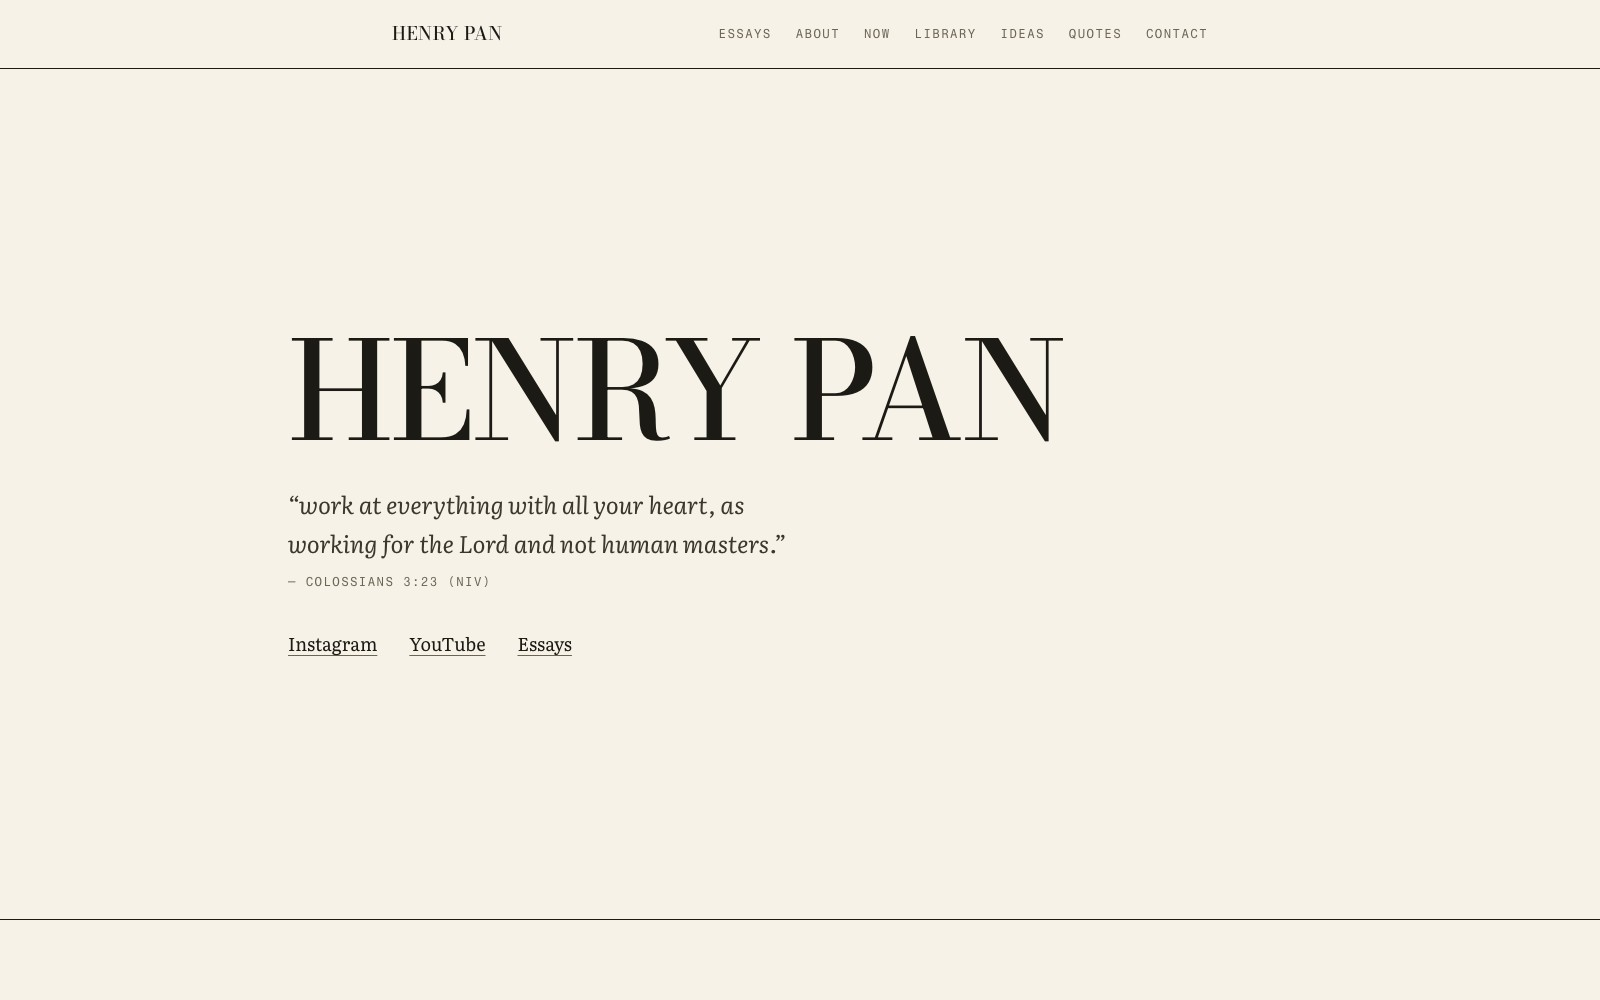
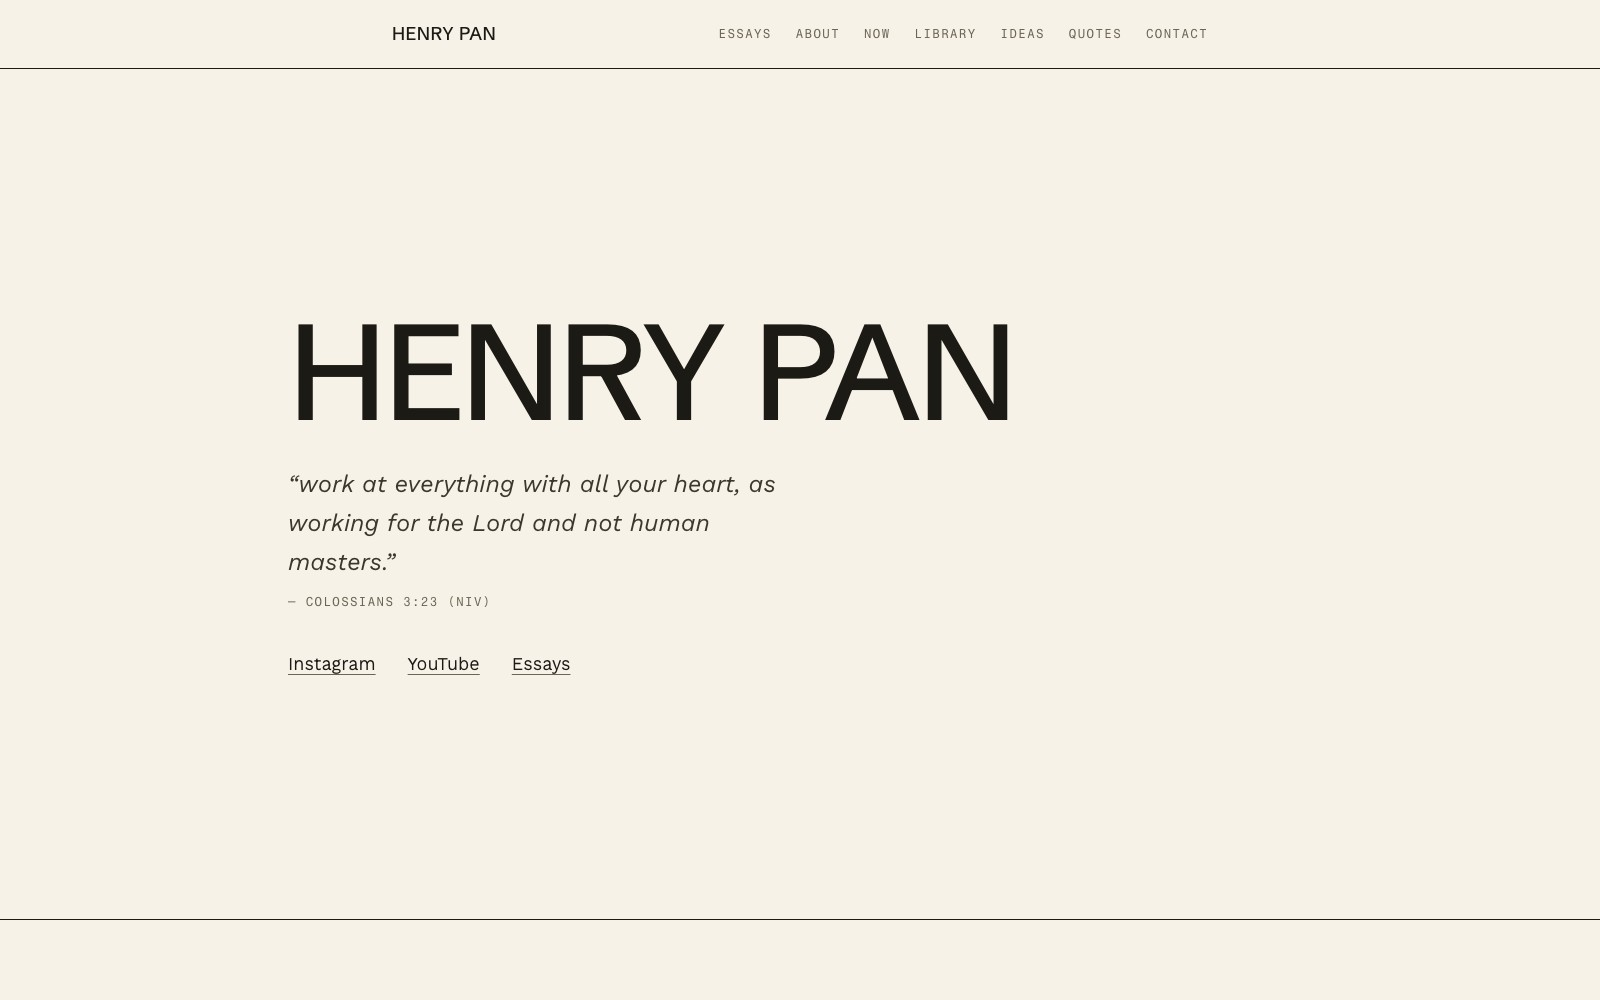
Henry Pan redesign: switch to sans-serif type, reformat Library
Henry gave feedback that he's "more of a sans serif type of guy" — swapped
the Bodoni Moda/Literata serif pairing for Schibsted Grotesk/Work Sans and
softened the near-0 corner radius. Also reworked the Library list rows from
a flex-wrap layout (which misaligned status/lindy badges depending on title
length) to a grid with consistent dot-indicator status labels instead of
mismatched filled/outline badge variants.

Changed region(s): [[0.1875, 0.31, 0.6562, 0.62], [0.1875, 0.62, 0.375, 0.682], [0.25, 0.0, 0.3125, 0.062]]

diff --git a/henryproject/components/sections/library-browser.tsx b/henryproject/components/sections/library-browser.tsx
@@ -5,7 +5,6 @@ import { StarIcon } from "lucide-react";
 
 import type { LibraryItem, LibrarySection, LibraryStatus } from "@/lib/types";
 import { cn } from "@/lib/utils";
-import { Badge } from "@/components/ui/badge";
 
 type Filter = "all" | "lindy" | LibraryStatus;
 
@@ -36,12 +35,12 @@ const statusLabel: Record<LibraryStatus, string> = {
   watched: "Watched",
 };
 
-const statusVariant: Record<LibraryStatus, "default" | "secondary" | "outline"> = {
-  reading: "default",
-  "to-read": "secondary",
-  read: "outline",
-  "to-watch": "secondary",
-  watched: "outline",
+const statusDotColor: Record<LibraryStatus, string> = {
+  reading: "bg-primary",
+  "to-read": "bg-secondary",
+  read: "bg-muted-foreground",
+  "to-watch": "bg-accent",
+  watched: "bg-muted-foreground",
 };
 
 const statusOrder: Record<LibraryStatus, number> = {
@@ -117,7 +116,7 @@ export function LibraryBrowser({ sections }: { sections: LibrarySection[] }) {
         <select
           value={sort}
           onChange={(event) => setSort(event.target.value as Sort)}
-          className="border border-border bg-background px-2 py-1 text-sm"
+          className="rounded-panel border border-border bg-background px-2 py-1 text-sm"
         >
           {sortOptions.map((option) => (
             <option key={option.value} value={option.value}>
@@ -137,41 +136,53 @@ export function LibraryBrowser({ sections }: { sections: LibrarySection[] }) {
               {section.items.map((item) => (
                 <li
                   key={item.title}
-                  className="flex flex-wrap items-center gap-x-3 gap-y-1 py-3"
+                  className="grid grid-cols-1 items-start gap-x-4 gap-y-1.5 py-3 sm:grid-cols-[minmax(0,1fr)_6.5rem_4.5rem] sm:items-center"
                 >
-                  {item.href ? (
-                    <a
-                      href={item.href}
-                      target="_blank"
-                      rel="noopener noreferrer"
-                      className="font-medium text-foreground underline decoration-transparent underline-offset-2 hover:decoration-foreground"
-                    >
-                      {item.title}
-                    </a>
-                  ) : (
-                    <span className="font-medium text-foreground">
-                      {item.title}
-                    </span>
-                  )}
-                  {item.author && (
-                    <span className="text-sm text-muted-foreground">
-                      {item.author}
-                    </span>
-                  )}
-                  {item.status && (
-                    <Badge variant={statusVariant[item.status]}>
-                      {statusLabel[item.status]}
-                    </Badge>
-                  )}
-                  {item.lindy && (
-                    <Badge
-                      variant="secondary"
-                      className="gap-1 bg-bronze-400 text-ink-950"
-                    >
-                      <StarIcon className="size-3 fill-current" />
-                      Lindy
-                    </Badge>
-                  )}
+                  <div className="min-w-0 sm:truncate">
+                    {item.href ? (
+                      <a
+                        href={item.href}
+                        target="_blank"
+                        rel="noopener noreferrer"
+                        className="font-medium text-foreground underline decoration-transparent underline-offset-2 hover:decoration-foreground"
+                      >
+                        {item.title}
+                      </a>
+                    ) : (
+                      <span className="font-medium text-foreground">
+                        {item.title}
+                      </span>
+                    )}
+                    {item.author && (
+                      <span className="ml-2 text-sm text-muted-foreground">
+                        {item.author}
+                      </span>
+                    )}
+                  </div>
+
+                  <div className="flex items-center">
+                    {item.status && (
+                      <span className="inline-flex items-center gap-1.5 font-label text-[11px] uppercase text-muted-foreground">
+                        <span
+                          className={cn(
+                            "size-1.5 shrink-0 rounded-full",
+                            statusDotColor[item.status]
+                          )}
+                          aria-hidden
+                        />
+                        {statusLabel[item.status]}
+                      </span>
+                    )}
+                  </div>
+
+                  <div className="flex items-center">
+                    {item.lindy && (
+                      <span className="inline-flex items-center gap-1 font-label text-[11px] uppercase text-bronze-600">
+                        <StarIcon className="size-3 shrink-0 fill-current" />
+                        Lindy
+                      </span>
+                    )}
+                  </div>
                 </li>
               ))}
             </ul>

diff --git a/henryproject/app/layout.tsx b/henryproject/app/layout.tsx
@@ -1,19 +1,20 @@
 import type { Metadata } from "next";
-import { Bodoni_Moda, Literata, Fragment_Mono } from "next/font/google";
+import { Schibsted_Grotesk, Work_Sans, Fragment_Mono } from "next/font/google";
 import { Toaster } from "@/components/ui/sonner";
 import { SiteHeader } from "@/components/layout/site-header";
 import { SiteFooter } from "@/components/layout/site-footer";
 import "./globals.css";
 
-const displayFont = Bodoni_Moda({
+const displayFont = Schibsted_Grotesk({
   variable: "--font-display",
   weight: ["500", "600", "700"],
   subsets: ["latin"],
 });
 
-const bodyFont = Literata({
+const bodyFont = Work_Sans({
   variable: "--font-body",
   style: ["normal", "italic"],
+  weight: ["300", "400", "500"],
   subsets: ["latin"],
 });
 

diff --git a/henryproject/app/globals.css b/henryproject/app/globals.css
@@ -70,7 +70,7 @@
   --surface-stage-border: var(--color-bronze-400);
 
   /* ---------- Component: shape + shadow language ---------- */
-  --radius-panel: 2px;
+  --radius-panel: 10px;
   --radius-pill: 999px;
 
   --border-width-hairline: 1px;
@@ -78,7 +78,7 @@
   --shadow-relief-sm: 0 1px 2px rgba(28, 26, 21, 0.08);
   --shadow-relief-md: 0 12px 32px -12px rgba(28, 26, 21, 0.32);
 
-  --radius: 2px;
+  --radius: 10px;
 }
 
 @theme inline {

diff --git a/README.md b/README.md
@@ -30,7 +30,7 @@ Redesign of [duolingo.com](https://www.duolingo.com), the language-learning app.
 
 ### [Henry Pan — Marginalia](./henryproject)
 
-Redesign of [henrybpan.com](http://henrybpan.com), a friend's personal site. Kept the original structure (home, about, now, library, ideas, quotes, writings, contact, newsletter) and every piece of his real writing verbatim, rebuilt around a "commonplace book" concept — the centuries-old genre of a personal notebook for collecting quotes and excerpts, which is literally what his Library/Quotes/Ideas pages already do. A warm, restrained scholarly register (Bodoni Moda display type, hairline borders, relief shadows) replaces the source site's plain minimal-blog look, with a dark inset-plate treatment reserved for the Quotes page.
+Redesign of [henrybpan.com](http://henrybpan.com), a friend's personal site. Kept the original structure (home, about, now, library, ideas, quotes, writings, contact, newsletter) and every piece of his real writing verbatim, rebuilt around a "commonplace book" concept — the centuries-old genre of a personal notebook for collecting quotes and excerpts, which is literally what his Library/Quotes/Ideas pages already do. A warm, restrained scholarly register (Schibsted Grotesk display type, hairline borders, relief shadows) replaces the source site's plain minimal-blog look, with a dark inset-plate treatment reserved for the Quotes page.
 
 **Live:** [henryproject.vercel.app](https://henryproject.vercel.app)
 **Stack:** Next.js, TypeScript, Tailwind CSS, shadcn/ui, Motion
